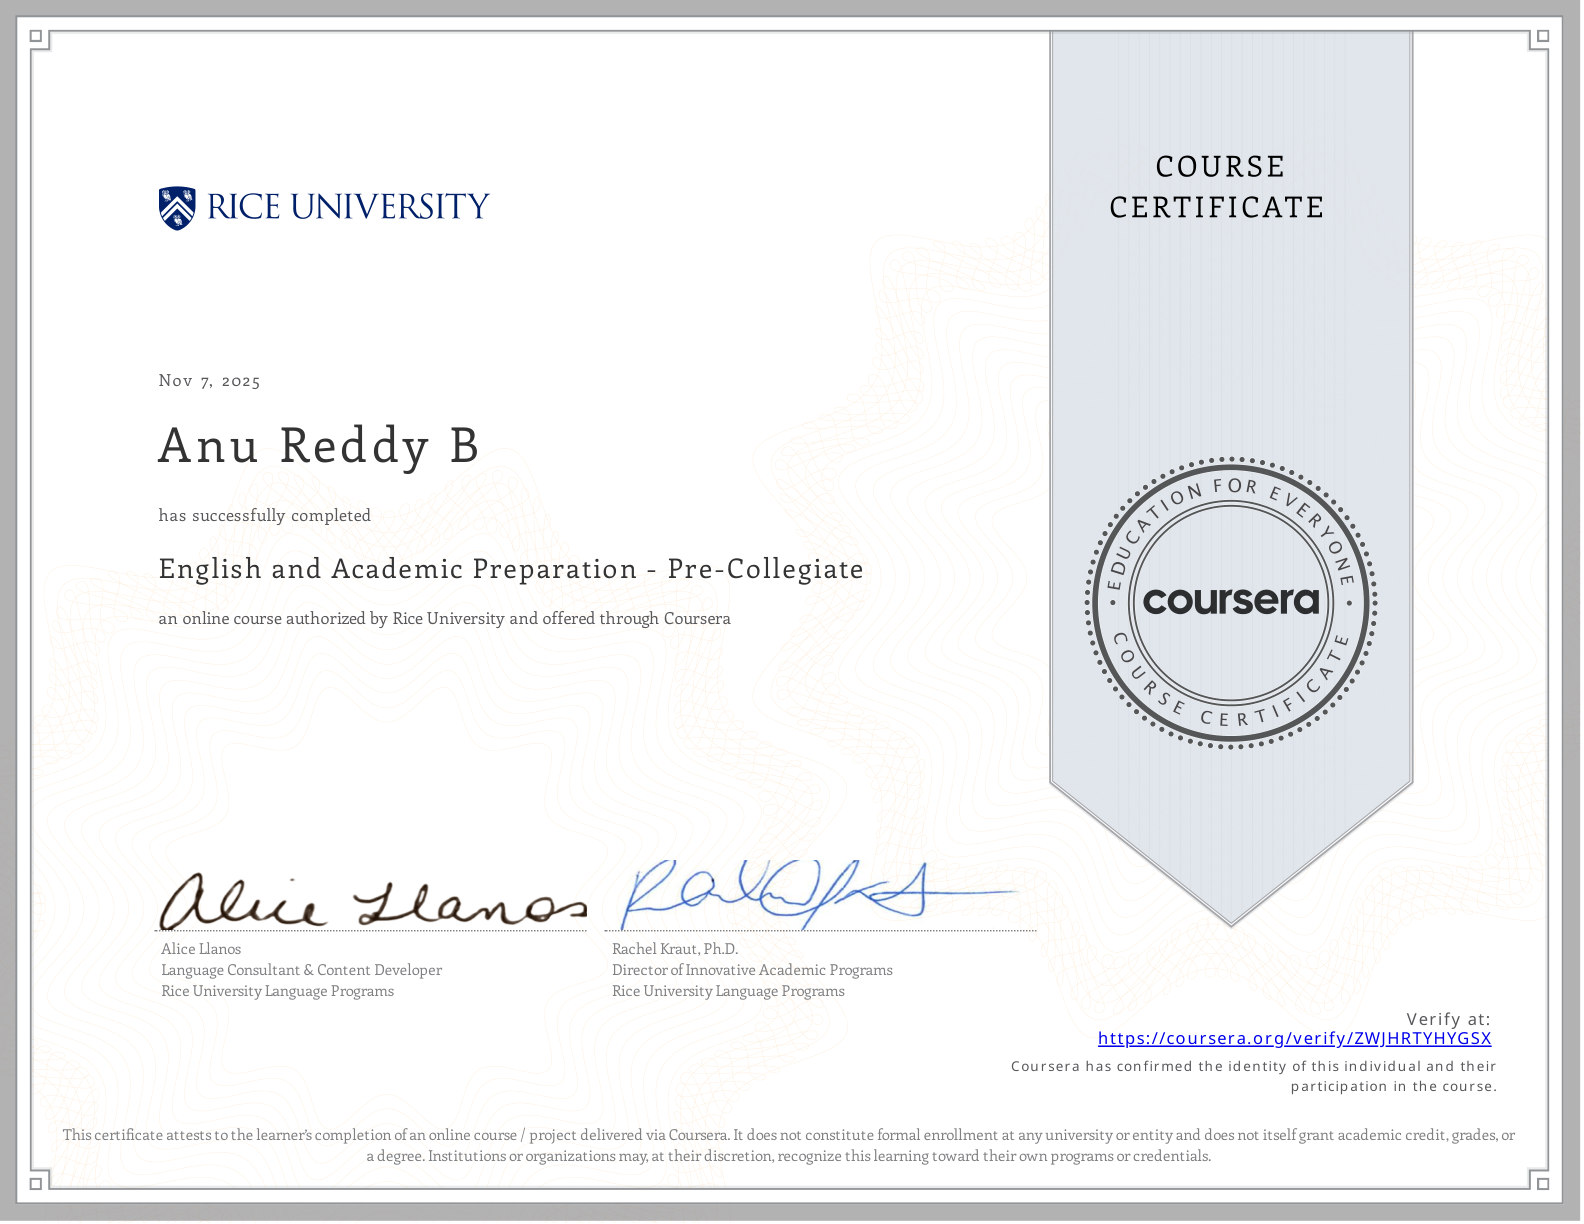
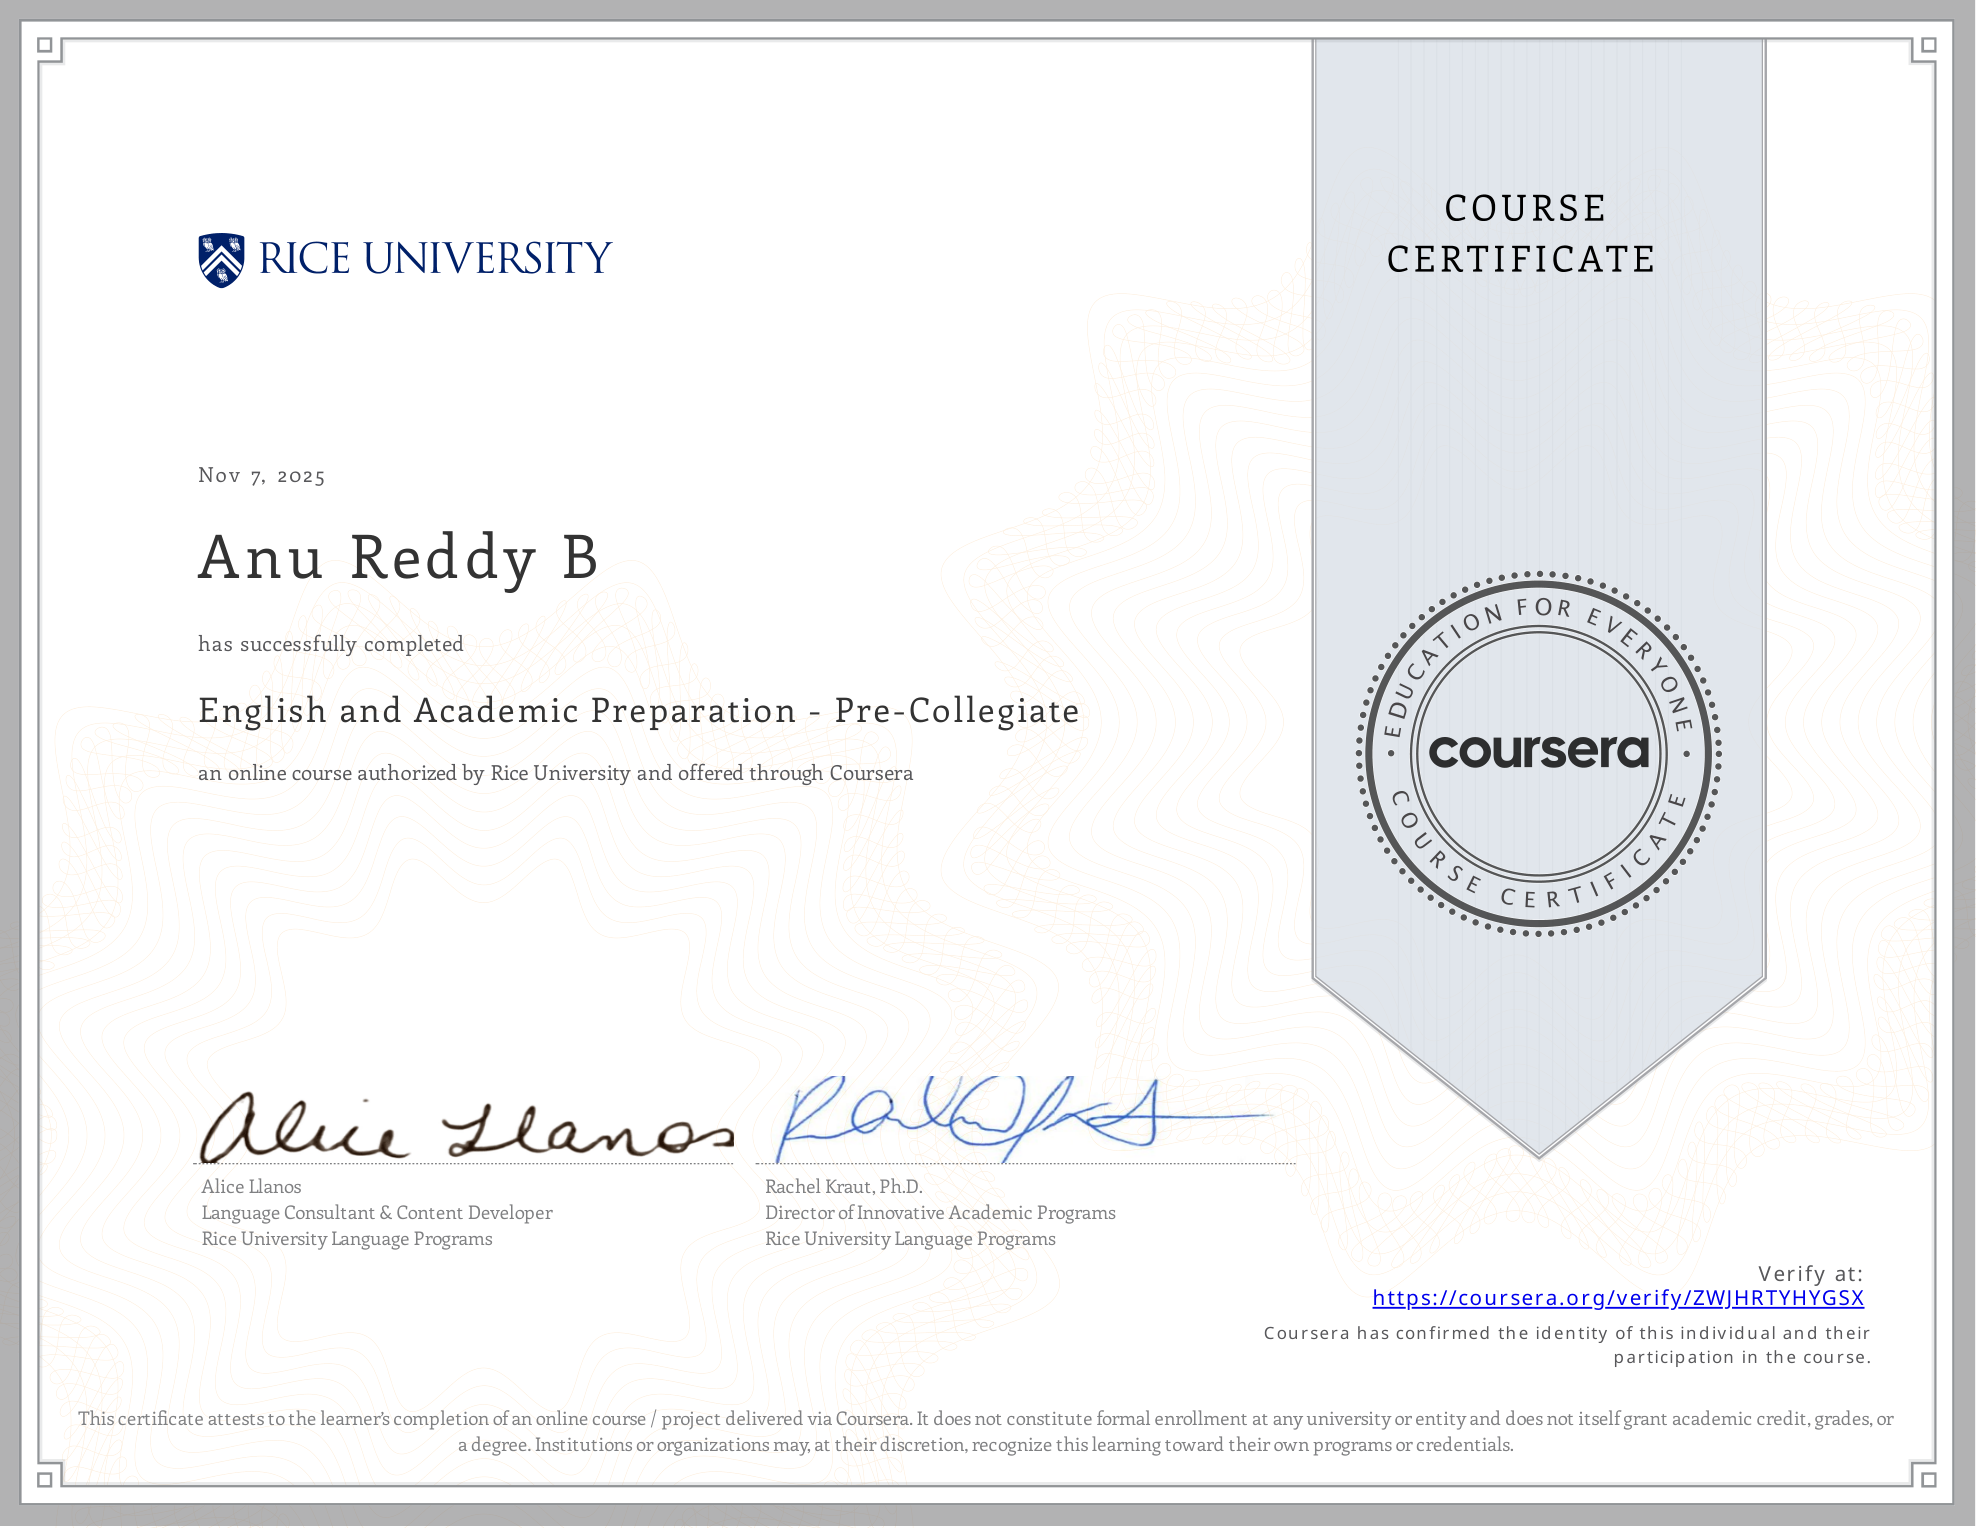
feat: add utility script to generate and crop certificate preview images

diff --git a/crop_previews.py b/crop_previews.py
@@ -1,0 +1,53 @@
+import os
+import pymupdf
+from PIL import Image, ImageChops
+
+cert_dir = r"c:\Users\Anu Reddy\OneDrive\Desktop\Projects\anu\public\certificates"
+preview_dir = r"c:\Users\Anu Reddy\OneDrive\Desktop\Projects\anu\public\certificate-previews"
+
+os.makedirs(preview_dir, exist_ok=True)
+
+files = [f for f in os.listdir(cert_dir) if f.lower().endswith('.pdf')]
+print(f"Processing {len(files)} PDF files...")
+
+def crop_white_borders(image_path, padding=10):
+    img = Image.open(image_path).convert("RGB")
+    # Create background image of pure white
+    bg = Image.new("RGB", img.size, (255, 255, 255))
+    diff = ImageChops.difference(img, bg)
+    # Threshold diff to ignore slight compression noise
+    diff = ImageChops.add(diff, diff, 2.0, -20)
+    bbox = diff.getbbox()
+    if bbox:
+        left, upper, right, lower = bbox
+        # Add small padding
+        left = max(0, left - padding)
+        upper = max(0, upper - padding)
+        right = min(img.width, right + padding)
+        lower = min(img.height, lower + padding)
+        
+        cropped = img.crop((left, upper, right, lower))
+        cropped.save(image_path)
+        print(f"[CROPPED] {os.path.basename(image_path)} (Original: {img.size} -> Cropped: {cropped.size})")
+
+for filename in files:
+    pdf_path = os.path.join(cert_dir, filename)
+    try:
+        doc = pymupdf.open(pdf_path)
+        if len(doc) > 0:
+            page = doc[0]  # Page 1
+            zoom = 2.5
+            mat = pymupdf.Matrix(zoom, zoom)
+            pix = page.get_pixmap(matrix=mat, alpha=False)
+            
+            out_filename = os.path.splitext(filename)[0] + ".png"
+            out_path = os.path.join(preview_dir, out_filename)
+            pix.save(out_path)
+            
+            # Crop white margins
+            crop_white_borders(out_path)
+        doc.close()
+    except Exception as e:
+        print(f"[ERROR] processing {filename}: {e}")
+
+print("All certificate previews cropped successfully!")
